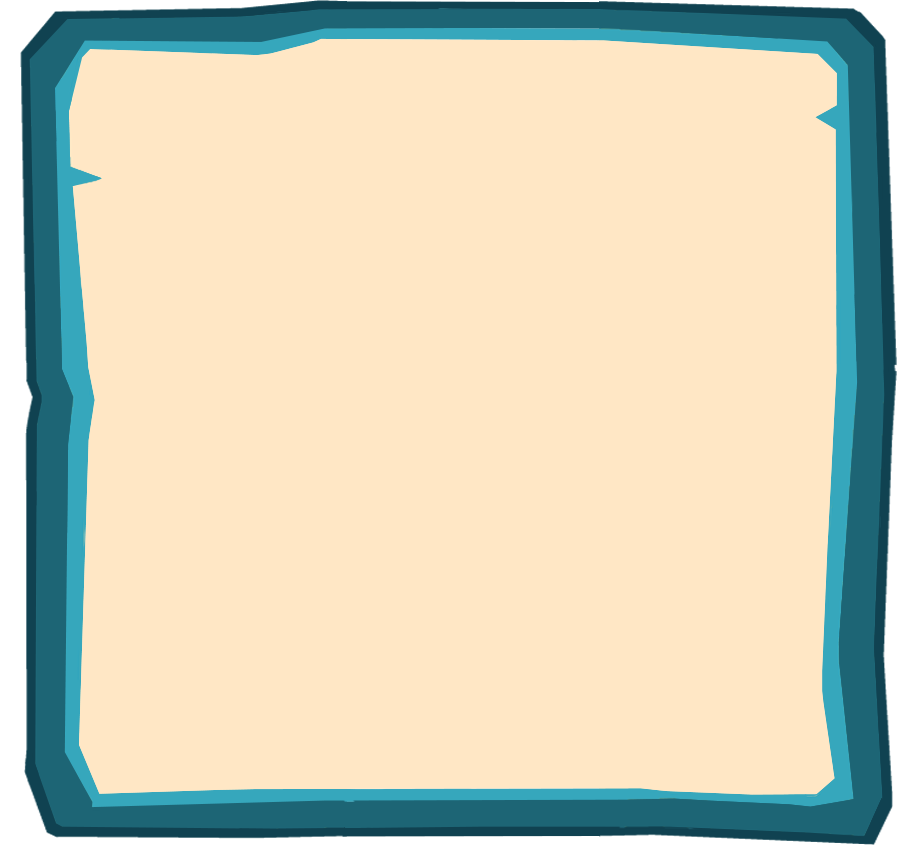
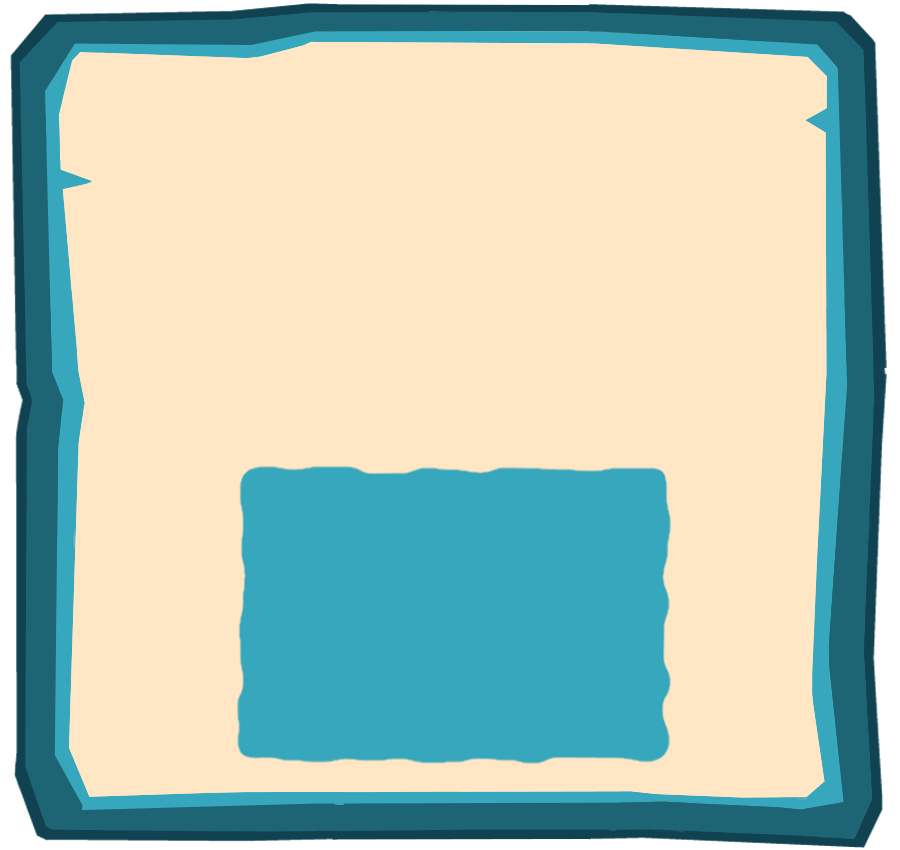
Добавлены картинки в Общую информацию в слоях

Changed region(s): [[0.0, 0.0, 1.0, 1.0]]

diff --git a/App/html/style.css b/App/html/style.css
@@ -515,10 +515,12 @@ body {
 	--form-header-top: 7.5%;
 	--form-header-font-size: 56px;
 	--form-header-text: '1956-1979 гг.';
-	--form-descr-text: 'Во второй половине XX в. Север Западной Сибири стал главным нефтегазодобывающим центром страны.  Со всех уголков Советского Союза в Сургут устремились потоки рабочей силы. Это привело к созданию нового этнического состава населения. Квалифицированные кадры для нефтяной и газовой промышленности прибывали из нефтяных территорий Поволжья, Татарии, Башкирии, Азербайджана и Чечено-Ингушетии. <br><br>В 1965 г. Тюменская область стала Всесоюзной ударной комсомольской стройкой №1, столицей которой был Сургут. <br><br>С 1965 по 1987 гг. в Сургуте работало шесть Всесоюзных ударных комсомольских строек. ';		
-	--form-images: url(images/cel_surgut_5679/СКМ/1.jpg) url(images/cel_surgut_5679/СКМ/2.jpg) url(images/cel_surgut_5679/СКМ/3.jpg) url(images/cel_surgut_5679/СКМ/4.jpg) url(images/cel_surgut_5679/СКМ/5.jpg) url(images/cel_surgut_5679/СКМ/6.jpg);
-	--form-images-width: 490px;
-	--form-images-height: 320px;
+	--form-descr-height: 250px;
+	--form-descr-text: 'Во второй половине XX в. Север Западной Сибири стал главным нефтегазодобывающим центром страны.  Со всех уголков Советского Союза в Сургут устремились потоки рабочей силы. Это привело к созданию нового этнического состава населения. Квалифицированные кадры для нефтяной и газовой промышленности прибывали из нефтяных территорий Поволжья, Татарии, Башкирии, Азербайджана и Чечено-Ингушетии. <br>В 1965 г. Тюменская область стала Всесоюзной ударной комсомольской стройкой №1, столицей которой был Сургут. <br>С 1965 по 1987 гг. в Сургуте работало шесть Всесоюзных ударных комсомольских строек. ';		
+	--form-images: url(images/cel_surgut_5679/Общая_информация/1.jpg) url(images/cel_surgut_5679/Общая_информация/2.jpg) url(images/cel_surgut_5679/Общая_информация/3.jpg);
+	--form-images-width: 380px;
+	--form-images-height: 248px;
+	--form-images-bottom: 112px;
 }
 
 .btn_info_surgut_1980_1991 {
@@ -541,7 +543,12 @@ body {
 	--form-header-top: 7.5%;
 	--form-header-font-size: 56px;
 	--form-header-text: '1980-1991 гг.';
+	--form-descr-height: 250px;
 	--form-descr-text: 'Для развития нефтегазового комплекса решающее значение имела строительная отрасль. Требовалось возведение новых городов и посёлков. Трудовые ресурсы формировались строителями из Ивановской, Владимирской, Горьковской, Кировской, Новгородской, Воронежской и Волгоградской областей. <br><br> В строительстве и обустройстве Сургута принимала участие молодёжь Латвии, Эстонии, Украины, Белоруссии, Казахстана, Молдавии и Народной республики Болгарии. <br><br>С 1960 г. по 1990 г. население Сургута увеличилось в 40 раз. Сургутянами стали люди более 80 национальностей. Основу населения составляли русские. ';			
+	--form-images: url(images/cel_surgut_8091/Общая_информация/1.jpg) url(images/cel_surgut_8091/Общая_информация/2.jpg);
+	--form-images-width: 380px;
+	--form-images-height: 248px;
+	--form-images-bottom: 112px;
 }
 
 .btn_info_surgut_1992_2020 {
@@ -564,7 +571,12 @@ body {
 	--form-header-top: 7.5%;
 	--form-header-font-size: 56px;
 	--form-header-text: '1992-2020 гг.';
+	--form-descr-height: 250px;
 	--form-descr-text: 'Распад СССР привёл к появлению новой миграции.  В Российскую Федерацию хлынули потоки рабочей силы. Жители бывших союзных республик стали иностранцами, постепенно сокращалось количество мигрантов, владеющих русским языком. Сургут мог обеспечить работой десятки тысяч человек. Он стал спасением для выходцев из регионов с высоким уровнем безработицы: Дагестана, Чечни и стран СНГ - Таджикистана, Азербайджана, Молдовы, Узбекистана, Казахстана. Сургут по-прежнему приветствовал их национальную самобытность. Трудовая миграция стала основным фактором формирования многонациональной структуры населения. В 2000 г. население Сургута составляло 275 тысяч человек. В 2010 г. население Сургута насчитывало 307 тысяч человек, в 2020 г. -  380 тысяч человек.';			
+	--form-images: url(images/cel_surgut_9220/Общая_информация/1.jpg) url(images/cel_surgut_9220/Общая_информация/2.jpg);
+	--form-images-width: 380px;
+	--form-images-height: 248px;
+	--form-images-bottom: 112px;
 }
 
 .btn_person_1956_1979 {

diff --git a/App/html/index.html b/App/html/index.html
@@ -1553,7 +1553,7 @@
 		
 		<div id="icon_form_celsurgut" class="icon_form_celsurgut" style="display: none;"><div id="x" class="inner_header_celsurgut"></div><div id="y" class="inner_text_celsurgut"></div><div id="w" class="scroll_arrow_celsurgut" style="top:88%"  onclick="scrollDown('icon_form_celsurgut')"></div><div id="z" class="close_btn_celsurgut" onclick="hideDivAndGreyBg('icon_form_celsurgut', true)"></div></div>
 		<div id="icon_form_pic_celsurgut" class="icon_form_pic_celsurgut" style="display: none;"><div id="x" class="inner_header_celsurgut"></div><div id="y" class="inner_text_celsurgut"></div><div id="w" class="scroll_arrow_celsurgut"  onclick="scrollDown('icon_form_pic_celsurgut')"></div><div id="z" class="close_btn_celsurgut" onclick="hideDivAndGreyBg('icon_form_pic_celsurgut', true)"></div></div>
-		<div id="about_form_celsurgut" class="about_form_celsurgut" style="display: none;"><div id="x" class="inner_header_celsurgut"></div><div id="y" class="inner_text_big_celsurgut"></div><div id="w" class="scroll_arrow_celsurgut" style="top:88%"  onclick="scrollDown('about_form_celsurgut')"></div><div id="z" class="close_btn_celsurgut" onclick="hideDivAndGreyBg('about_form_celsurgut', true)"></div></div>
+		<div id="about_form_celsurgut" class="about_form_celsurgut" style="display: none;"><div id="x" class="inner_header_celsurgut"></div><div id="y" class="inner_text_big_celsurgut"></div><div id="w" class="scroll_arrow_celsurgut" style="top:52%"  onclick="scrollDown('about_form_celsurgut')"></div><div id="z" class="close_btn_celsurgut" onclick="hideDivAndGreyBg('about_form_celsurgut', true)"></div></div>
 		<div id="form_surgut_person_card" class="form_surgut_person_card" style="display: none;"><div id="x" class="inner_header_person_card"></div><div id="y" class="inner_text_person_card"></div><div id="w" class="scroll_arrow_celsurgut" style="top:58.6%"  onclick="scrollDown('form_surgut_person_card')"></div><div id="z" class="close_btn_person_card" onclick="hideDivAndGreyBg('form_surgut_person_card', false)"></div></div>
 
 	</div>

diff --git a/App/html/script.js b/App/html/script.js
@@ -987,6 +987,10 @@ function iconClick(e) {
 	imagesHeight = imagesHeight != undefined && imagesHeight != null && imagesHeight.trim() != "" ? imagesHeight.trim() : null;
 	if(imagesHeight) imageGroup.style.height = imagesHeight;
 
+	var imagesBottom = cs.getPropertyValue('--form-images-bottom');
+	imagesBottom = imagesBottom != undefined && imagesBottom != null && imagesBottom.trim() != "" ? imagesBottom.trim() : null;
+	if(imagesBottom) imageGroup.style.bottom = imagesBottom;
+
 	let innerImageGroup = document.createElement('div');
 	innerImageGroup.classList.add('objectImages');
 	imageGroup.appendChild(innerImageGroup);
